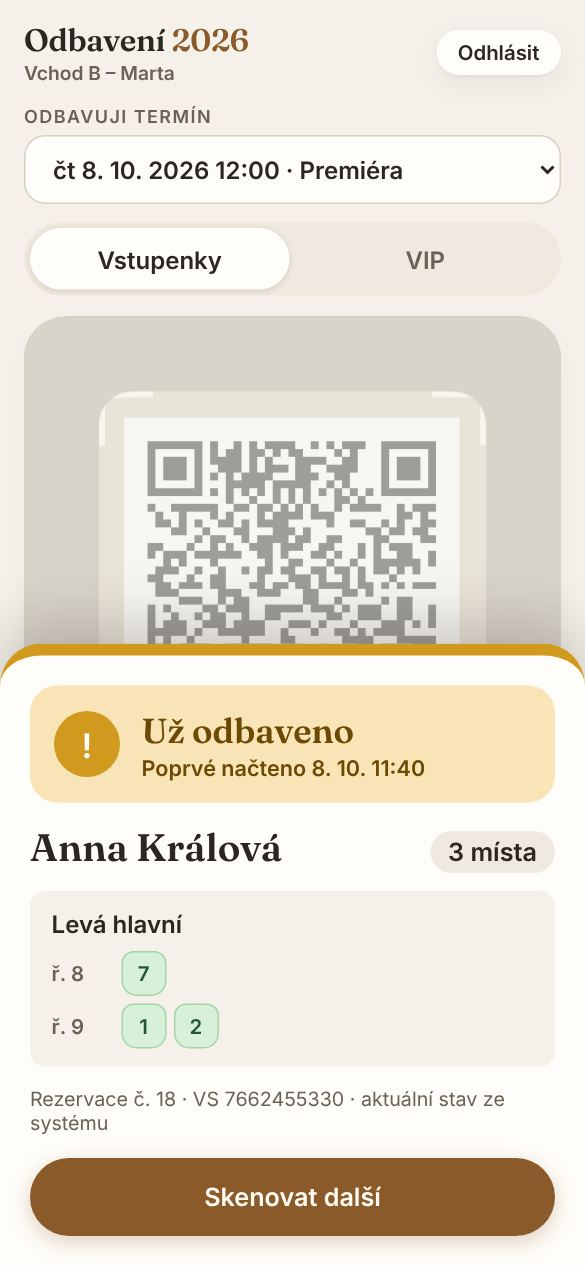
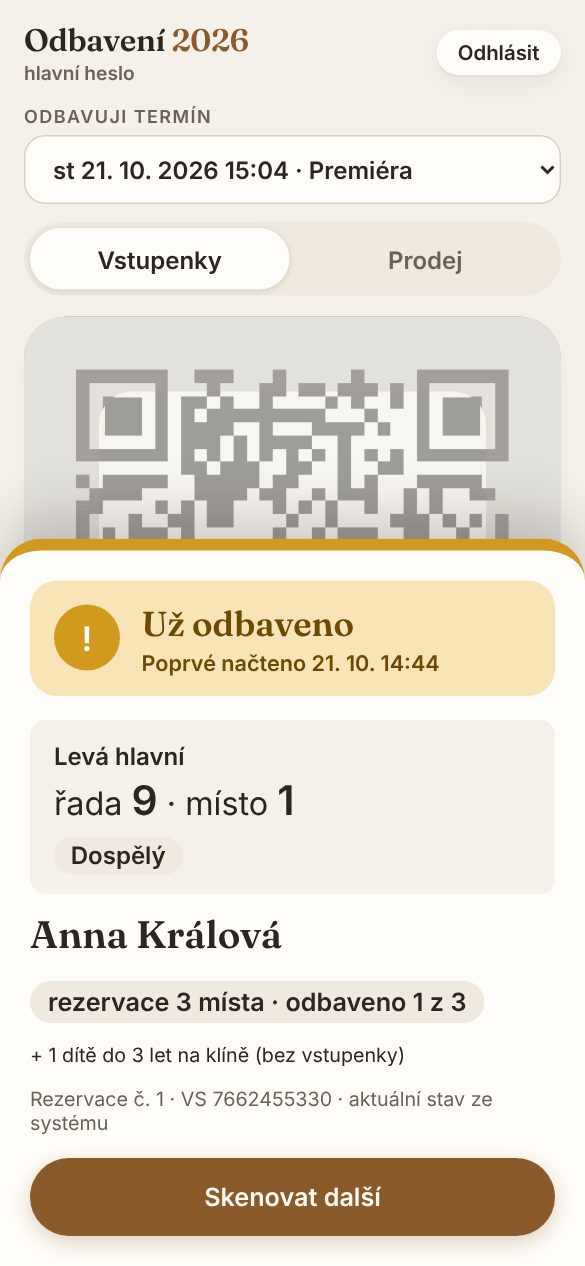
Stakeholder overview: prices, discount codes, seat tickets, on-site sale
Updated texts and refreshed screenshots with demo data; VIP screens removed.
Admin: Czech plural of on-site sales, discount codes not wrapped.

Claude-Session: https://claude.ai/code/session_01Tqukm7uUaAAmFan7fEuHMF

diff --git a/docs/prehled/index.html b/docs/prehled/index.html
@@ -48,6 +48,10 @@ section { display: flex; flex-direction: column; gap: 20px; }
 header.hero { display: flex; flex-direction: column; gap: 14px; }
 
 /* the journey */
+.prices { display: grid; grid-template-columns: repeat(auto-fit, minmax(150px, 1fr)); gap: 10px; margin: 0 0 14px; }
+.prices div { padding: 12px 14px; background: var(--surface); border: 1px solid var(--line); border-radius: 14px; display: flex; flex-direction: column; gap: 2px; }
+.prices strong { font-size: 1.25rem; }
+.prices span { color: var(--fg-2); font-size: .9rem; }
 .flow { list-style: none; margin: 0; padding: 0; display: grid; grid-template-columns: minmax(0, 1fr); gap: 10px; counter-reset: step; }
 .flow li { counter-increment: step; display: grid; grid-template-columns: 2.4rem minmax(0, 1fr); gap: 4px 14px; padding: 16px; border-radius: 16px; background: var(--surface); border: 1px solid var(--line); }
 .flow li::before { content: counter(step); grid-row: span 2; width: 2.4rem; height: 2.4rem; border-radius: 50%; display: grid; place-items: center; background: var(--accent); color: var(--surface); font: 600 1.1rem var(--font-display); }
@@ -102,12 +106,17 @@ footer { color: var(--fg-2); font-size: .85rem; border-top: 1px solid var(--line
 
   <section aria-labelledby="flow">
     <h2 id="flow">V pěti krocích</h2>
+    <div class="prices">
+      <div><strong>300 Kč</strong><span>dospělí od 18 let</span></div>
+      <div><strong>150 Kč</strong><span>děti 4–17 let</span></div>
+      <div><strong>zdarma</strong><span>děti do 3 let na klíně – bez vlastního místa a vstupenky</span></div>
+    </div>
     <ol class="flow">
-      <li><strong>Výběr</strong><span>Návštěvník vybere představení a na plánku kostela naklikne místa (300 Kč, nejvýše 20 najednou).</span></li>
-      <li><strong>Rezervace</strong><span>Vyplní jméno a e-mail. Místa jsou od té chvíle držena jen pro něj.</span></li>
-      <li><strong>Platba</strong><span>Zaplatí převodem – nejsnáz QR platbou v bankovní aplikaci. Má na to 3 dny (nejpozději do začátku představení).</span></li>
-      <li><strong>Vstupenka</strong><span>Účetní platbu potvrdí a návštěvníkovi přijde e-mailem vstupenka s QR kódem a pozvánkou do kalendáře.</span></li>
-      <li><strong>Vstup</strong><span>U vchodu ji ukáže v mobilu, pořadatel ji načte telefonem a pustí ho dál.</span></li>
+      <li><strong>Výběr</strong><span>Návštěvník vybere představení a na plánku kostela naklikne místa (nejvýše 20 najednou).</span></li>
+      <li><strong>Rezervace</strong><span>Určí, kolik míst je pro děti, případně zadá slevový kód, a vyplní jméno a e-mail. Místa jsou od té chvíle držena jen pro něj.</span></li>
+      <li><strong>Platba</strong><span>Zaplatí převodem – nejsnáz QR platbou v bankovní aplikaci. Má na to 3 dny (nejpozději do začátku představení; správce může od určitého data splatnost zkrátit).</span></li>
+      <li><strong>Vstupenky</strong><span>Účetní platbu potvrdí a návštěvníkovi přijdou e-mailem vstupenky – pro každé místo vlastní QR kód, v příloze i PDF k vytištění a rozstříhání.</span></li>
+      <li><strong>Vstup</strong><span>U vchodu ukáže vstupenky v mobilu nebo vytištěné, pořadatel je načte telefonem – každou židli zvlášť.</span></li>
     </ol>
   </section>
 
@@ -118,8 +127,9 @@ footer { color: var(--fg-2); font-size: .85rem; border-top: 1px solid var(--line
         <h3>Návštěvník</h3>
         <span class="where">webová stránka · mobil i počítač</span>
         <ul>
-          <li>vybere představení a místa, rezervuje a zaplatí</li>
-          <li>dostane vstupenku e-mailem</li>
+          <li>vybere představení a místa, určí dětská místa, rezervuje a zaplatí</li>
+          <li>může použít slevový kód – jedno místo zdarma za každý kód</li>
+          <li>dostane e-mailem vstupenky – na každou židli jednu, i k vytištění</li>
           <li>může zrušit celou rezervaci nebo jen některá místa</li>
         </ul>
       </article>
@@ -129,7 +139,9 @@ footer { color: var(--fg-2); font-size: .85rem; border-top: 1px solid var(--line
         <ul>
           <li>kontroluje platby ve výpisu a zapisuje, kolik skutečně přišlo</li>
           <li>vrací peníze při zrušení</li>
-          <li>zakládá představení, storno podmínky a VIP hosty s konkrétními místy</li>
+          <li>zakládá představení, storno podmínky a splatnost plateb</li>
+          <li>rozesílá slevové kódy na e-maily</li>
+          <li>ověřuje platby za vstupenky prodané u vchodu</li>
           <li>posílá pozvánky pořadatelům u vchodu</li>
           <li>zve další účetní – každý má vlastní přihlášení</li>
         </ul>
@@ -138,8 +150,8 @@ footer { color: var(--fg-2); font-size: .85rem; border-top: 1px solid var(--line
         <h3>Pořadatel u vchodu</h3>
         <span class="where">scanner · vlastní mobil s pozvánkou</span>
         <ul>
-          <li>načítá vstupenky kamerou telefonu</li>
-          <li>vpouští VIP hosty podle jména</li>
+          <li>načítá vstupenky kamerou telefonu – každou židli zvlášť</li>
+          <li>prodává volná místa přímo u vchodu – zákazník zaplatí QR platbou</li>
           <li>vidí jen představení, na která dostal pozvánku</li>
           <li>odbavuje i při výpadku internetu (podle staženého seznamu)</li>
         </ul>
@@ -168,13 +180,13 @@ footer { color: var(--fg-2); font-size: .85rem; border-top: 1px solid var(--line
       <figure><div class="phone"><img src="03-sekce.jpg" alt="Detail sekce s místy" width="585" height="1266" loading="lazy"></div>
         <figcaption><strong>3. Výběr míst</strong>Řada a číslo na každé židli. Zelená volná, červená vybraná nebo obsazená.</figcaption></figure>
       <figure><div class="phone"><img src="04-formular.jpg" alt="Formulář rezervace" width="585" height="1266" loading="lazy"></div>
-        <figcaption><strong>4. Rezervace</strong>Jméno a e-mail, cena, storno podmínky a informace o ochraně údajů.</figcaption></figure>
+        <figcaption><strong>4. Rezervace</strong>Kolik míst je pro děti 4–17 let, děti do 3 let na klíně, slevové kódy, výsledná cena. Pod tím jméno, e-mail, storno podmínky a ochrana údajů.</figcaption></figure>
       <figure><div class="phone"><img src="05-platba.jpg" alt="Stránka s QR platbou" width="585" height="1770" loading="lazy"></div>
-        <figcaption><strong>5. Platba</strong>QR platba a všechny platební údaje ke zkopírování. Stejné údaje přijdou e-mailem.</figcaption></figure>
-      <figure><div class="phone"><img src="06-vstupenka-storno.jpg" alt="Vstupenka a zrušení míst" width="585" height="1770" loading="lazy"></div>
-        <figcaption><strong>6. Vstupenka a zrušení</strong>Po zaplacení vstupenka. Zde lze zrušit celou rezervaci nebo jen některá místa.</figcaption></figure>
-      <figure><div class="phone"><img src="07-email.jpg" alt="E-mail se vstupenkou" width="630" height="1050" loading="lazy"></div>
-        <figcaption><strong>7. Vstupenka e-mailem</strong>QR kód, představení, jméno a místa. V příloze je událost do kalendáře (udalost.ics) – Gmail i Outlook nabídnou „Přidat do kalendáře“.</figcaption></figure>
+        <figcaption><strong>5. Platba</strong>QR platba a všechny platební údaje ke zkopírování, pod nimi každé místo s druhem a cenou (místo za slevový kód zdarma). Stejné údaje přijdou e-mailem.</figcaption></figure>
+      <figure><div class="phone"><img src="06-vstupenka-storno.jpg" alt="Vstupenky a zrušení míst" width="585" height="3267" loading="lazy"></div>
+        <figcaption><strong>6. Vstupenky a zrušení</strong>Po zaplacení vstupenka pro každé místo a tlačítko na PDF k tisku. Zde lze zrušit celou rezervaci nebo jen některá místa.</figcaption></figure>
+      <figure><div class="phone"><img src="07-email.jpg" alt="E-mail se vstupenkami" width="630" height="2096" loading="lazy"></div>
+        <figcaption><strong>7. Vstupenky e-mailem</strong>Představení, jméno a pro každé místo vlastní QR kód (1 QR kód = 1 židle). V příloze vstupenky.pdf k vytištění – vstupenky pod sebou s čarou na rozstříhání – a událost do kalendáře (udalost.ics).</figcaption></figure>
     </div>
 
     <div class="group-head"><h3>Pořadatel u vchodu</h3><span class="where">mobil · scanner</span></div>
@@ -184,19 +196,23 @@ footer { color: var(--fg-2); font-size: .85rem; border-top: 1px solid var(--line
       <figure><div class="phone"><img src="09-scanner-mimo-cas.jpg" alt="Varování mimo čas odbavení" width="585" height="1266" loading="lazy"></div>
         <figcaption><strong>Hlídání času</strong>Mimo hodinu před a po začátku představení scanner varuje. Odbavit lze jen po potvrzení.</figcaption></figure>
       <figure><div class="phone"><img src="10-scanner-platna.jpg" alt="Platná vstupenka" width="585" height="1266" loading="lazy"></div>
-        <figcaption><strong>Platná vstupenka</strong>Zelená = pustit dál. Ukáže jméno a místa.</figcaption></figure>
+        <figcaption><strong>Platná vstupenka</strong>Zelená = pustit dál. Velké číslo řady a místa, dospělý / dítě, kolik míst z rezervace už prošlo a děti na klíně.</figcaption></figure>
       <figure><div class="phone"><img src="11-scanner-uz-odbaveno.jpg" alt="Vstupenka už použita" width="585" height="1266" loading="lazy"></div>
-        <figcaption><strong>Už odbaveno</strong>Druhé načtení stejné vstupenky ukáže, kdy prošla poprvé.</figcaption></figure>
-      <figure><div class="phone"><img src="12-scanner-vip.jpg" alt="Seznam VIP hostů" width="585" height="1266" loading="lazy"></div>
-        <figcaption><strong>VIP hosté</strong>Vyhledání podle jména, u každého hosta jeho místa a tlačítko Vpustit.</figcaption></figure>
+        <figcaption><strong>Už odbaveno</strong>Druhé načtení stejné vstupenky (stejné židle) ukáže, kdy prošla poprvé.</figcaption></figure>
       <figure><div class="phone"><img src="17-scanner-offline.jpg" alt="Odbavení bez internetu" width="585" height="1266" loading="lazy"></div>
         <figcaption><strong>Bez internetu</strong>Scanner ověřuje podle seznamu staženého předem. Žlutý pruh ukazuje, odkdy je seznam a kolik odbavení čeká na odeslání.</figcaption></figure>
+      <figure><div class="phone"><img src="22-scanner-prodej.jpg" alt="Prodej vstupenek u vchodu" width="585" height="1266" loading="lazy"></div>
+        <figcaption><strong>Prodej u vchodu</strong>Dokud jsou volná místa, pořadatel je vybere na plánku sekce a určí dětská místa.</figcaption></figure>
+      <figure><div class="phone"><img src="23-scanner-prodej-platba.jpg" alt="QR platba za prodané vstupenky" width="585" height="1266" loading="lazy"></div>
+        <figcaption><strong>Platba u vchodu</strong>Zákazník naskenuje QR platbu v bankovní aplikaci a ukáže odeslanou platbu. Pořadatel klepne „Zaplaceno – vpustit“ – místa jsou rovnou odbavená.</figcaption></figure>
     </div>
 
     <div class="group-head"><h3>Účetní / správce</h3><span class="where">počítač · správa</span></div>
     <div class="screens-wide">
       <figure><div class="desktop"><img src="13-admin-rezervace.jpg" alt="Seznam rezervací" width="1360" height="860" loading="lazy"></div>
-        <figcaption><strong>Rezervace</strong>Obsazenost představení, vyhledávání podle VS nebo jména, zápis přijaté částky, zrušení, vracení peněz.</figcaption></figure>
+        <figcaption><strong>Rezervace</strong>Obsazenost představení, vyhledávání podle VS nebo jména, zápis přijaté částky, zrušení, vracení peněz, PDF vstupenek. U každého místa je vidět dětská vstupenka, slevový kód a zda už prošlo. Červená karta upozorní na prodeje u vchodu, u kterých je třeba ověřit, že platba dorazila.</figcaption></figure>
+      <figure><div class="desktop"><img src="21-admin-kody.jpg" alt="Slevové kódy" width="1360" height="860" loading="lazy"></div>
+        <figcaption><strong>Slevové kódy</strong>Zadáte e-maily, každý dostane jeden kód (kdo má dostat víc, zadejte ho víckrát). Je vidět, který kód byl použit a na jaké místo. Nepoužitý kód lze poslat znovu nebo zrušit.</figcaption></figure>
       <figure><div class="desktop"><img src="15-admin-poradatele.jpg" alt="Pozvánky pořadatelů" width="1360" height="860" loading="lazy"></div>
         <figcaption><strong>Pořadatelé</strong>Pozvánky pro mobily u vchodu, vždy jen na vybraná představení. Přístup lze kdykoli zrušit.</figcaption></figure>
       <figure><div class="desktop"><img src="18-admin-konflikty.jpg" alt="Konflikty z odbavení bez internetu" width="1360" height="860" loading="lazy"></div>
@@ -205,27 +221,28 @@ footer { color: var(--fg-2); font-size: .85rem; border-top: 1px solid var(--line
         <figcaption><strong>Účetní</strong>Pozvání další účetní e-mailem, stav pozvánek, nové heslo při zapomenutí, vypnutí účtu.</figcaption></figure>
       <figure><div class="desktop"><img src="20-pozvanka-heslo.jpg" alt="Vytvoření hesla z pozvánky" width="1360" height="860" loading="lazy"></div>
         <figcaption><strong>Pozvánka pro účetní</strong>Odkaz z e-mailu: pozvaná si vytvoří heslo, přihlašovacím jménem je její e-mail.</figcaption></figure>
-      <figure><div class="desktop"><img src="14-admin-vip.jpg" alt="VIP hosté" width="1360" height="860" loading="lazy"></div>
-        <figcaption><strong>VIP hosté</strong>Hosté zdarma pro každé představení. Místa se vybírají na plánku – šedá obsadily rezervace, zlatá jiní VIP. Je vidět, kdo už přišel.</figcaption></figure>
       <figure><div class="desktop"><img src="16-admin-terminy.jpg" alt="Nastavení představení" width="1360" height="860" loading="lazy"></div>
-        <figcaption><strong>Představení a storno</strong>Datum a čas každého představení a jeho storno poplatky. Po první rezervaci jsou zamčené.</figcaption></figure>
+        <figcaption><strong>Splatnost, představení a storno</strong>Nahoře splatnost plateb: od zvoleného data a hodiny mají nové rezervace kratší (nebo delší) lhůtu na zaplacení. Pod tím datum a čas každého představení a jeho storno poplatky – po první rezervaci jsou zamčené.</figcaption></figure>
     </div>
   </section>
 
   <section aria-labelledby="rules">
     <h2 id="rules">Důležitá pravidla</h2>
     <div class="rules">
-      <div class="rule"><strong>Kdo nezaplatí, přijde o místa</strong><p>Na platbu jsou 3 dny (nejpozději do začátku představení). Den předem přijde připomínka. Když platba nedorazí ani 2 dny po splatnosti, místa se uvolní.</p></div>
+      <div class="rule"><strong>Ceny</strong><p>Dospělí od 18 let 300 Kč, děti 4–17 let 150 Kč. Děti do 3 let sedí na klíně zdarma – nemají vlastní místo ani vstupenku, v rezervaci se jen uvedou.</p></div>
+      <div class="rule"><strong>Slevové kódy</strong><p>Kód platí na libovolné představení a jen jednou. Odečte cenu jednoho místa – vždy nejdražšího (nejdřív dospělého, pak dětského). Kódů lze v rezervaci použít víc, nejvýše jeden na místo. Když kódy pokryjí celou cenu, rezervace je potvrzená hned. Při stornu se za místo zdarma nic nevrací a kód zůstává použitý.</p></div>
+      <div class="rule"><strong>1 QR kód = 1 židle</strong><p>Každé místo má vlastní vstupenku. Rodina si je může vytisknout, rozstříhat a rozdat – u vchodu se načítá každá zvlášť a scanner ukáže, zda jde o dospělého, nebo dítě.</p></div>
+      <div class="rule"><strong>Prodej u vchodu</strong><p>Dokud jsou volná místa, pořadatel je prodá přímo na místě: zákazník zaplatí QR platbou v bankovní aplikaci, pořadatel po ukázání odeslané platby vpustí. Peníze pak ve výpisu ověří účetní („Platba dorazila“). Prodej potřebuje internet.</p></div>
+      <div class="rule"><strong>Kdo nezaplatí, přijde o místa</strong><p>Na platbu jsou 3 dny (nejpozději do začátku představení). Správce může od zvoleného data a hodiny nastavit jinou splatnost v hodinách – platí pro rezervace vytvořené od té doby. Den předem přijde připomínka. Když platba nedorazí ani 2 dny po splatnosti, místa se uvolní.</p></div>
       <div class="rule"><strong>Platby potvrzuje člověk</strong><p>Aplikace není napojená na banku. Účetní páruje platby podle variabilního symbolu a zapíše, kolik skutečně přišlo. Vstupenka proto přijde až po potvrzení.</p></div>
       <div class="rule"><strong>Málo nebo moc peněz</strong><p>Když přijde méně, návštěvník dostane e-mail, kolik má doplatit, a vstupenka přijde po doplacení. Přeplatek se vrací na účet, ze kterého platba přišla.</p></div>
       <div class="rule"><strong>Zrušení a storno</strong><p>Návštěvník ruší sám přes odkaz z e-mailu, celou rezervaci i jednotlivá místa. Poplatek podle storno podmínek představení, zbytek se do 14 dnů vrátí na účet, ze kterého platba přišla.</p></div>
-      <div class="rule"><strong>Vstupenku nejde padělat</strong><p>QR kód je elektronicky podepsaný. Pořadatel vždy vidí aktuální stav: zaplaceno, zrušeno nebo už prošel.</p></div>
+      <div class="rule"><strong>Vstupenku nejde padělat</strong><p>QR kód je elektronicky podepsaný. Pořadatel vždy vidí aktuální stav: zaplaceno, zrušeno (i jednotlivé zrušené místo) nebo už prošel.</p></div>
       <div class="rule"><strong>Vstupenka platí jen na své představení</strong><p>Kdo přijde jiný den, scanner ukáže „Jiný termín“ a dotyčného nepustí jako odbaveného.</p></div>
       <div class="rule"><strong>Bez internetu u vchodu</strong><p>Scanner si s internetem průběžně stahuje seznam vstupenek. Když spojení vypadne, ověřuje podle něj (pozná i zrušené a už použité vstupenky) a odbavení odešle, až se spojení vrátí. Mobily bez spojení o sobě navzájem nevědí – kopii stejné vstupenky na dvou vchodech zjistí systém až dodatečně.</p></div>
       <div class="rule"><strong>Odbavení jen v pravý čas</strong><p>Od hodiny před do hodiny po začátku představení. Jindy scanner varuje, aby se omylem neodbavovalo jiné představení.</p></div>
       <div class="rule"><strong>Čas a storno podmínky se nemění</strong><p>Jakmile má představení první rezervaci, nelze už změnit jeho začátek ani storno podmínky – platí to, za co si lidé místa koupili.</p></div>
       <div class="rule"><strong>Platba, která už nejde použít</strong><p>Peníze po propadnutí rezervace ji obnoví, pokud představení ještě nezačalo a místa jsou volná. Jinak – a také u zrušené rezervace nebo platby poslané dvakrát – se peníze vrací na účet plátce a návštěvník dostane e-mail.</p></div>
-      <div class="rule"><strong>VIP hosté</strong><p>Neplatí a nemají vstupenku, ale mají přidělená konkrétní místa – na webu se ukazují jako obsazená. Pořadatel je najde na seznamu podle jména.</p></div>
       <div class="rule"><strong>Každá účetní má vlastní přihlášení</strong><p>Správce pozve účetní e-mailem, ta si na odkazu (platí 7 dní) vytvoří heslo, přihlašuje se svým e-mailem. Kdo heslo zapomene, dostane nový odkaz. Účet lze kdykoli vypnout – dotyčná je hned odhlášená. Všichni správci mají stejná práva.</p></div>
       <div class="rule"><strong>Ochrana proti robotům</strong><p>Formulář chrání neviditelná kontrola – návštěvník nic nevyplňuje ani nevybírá obrázky, prohlížeč se ověří sám na pozadí.</p></div>
       <div class="rule"><strong>Ochrana osobních údajů</strong><p>Ukládá se jen jméno a e-mail. 30 dní po posledním představení se automaticky smažou – u rezervací, kde se ještě vrací peníze, až po jejich vrácení.</p></div>
@@ -236,15 +253,16 @@ footer { color: var(--fg-2); font-size: .85rem; border-top: 1px solid var(--line
     <h2 id="launch">Co je potřeba před spuštěním</h2>
     <ul class="checklist">
       <li>Bankovní účet pro platby a specifický symbol.</li>
-      <li>Přístup k odesílání e-mailů (SMTP): server, port, e-mailová adresa odesílatele a její heslo.</li>
+      <li>Přístup k odesílání e-mailů (SMTP): server, port, e-mailová adresa odesílatele a její heslo – zapisují se do souboru .env na serveru.</li>
       <li>Kontaktní e-mail a telefon pořadatelů – zobrazí se na webu a v každém e-mailu, odpovědi na e-maily půjdou na tento kontakt.</li>
       <li>Data a časy všech představení a jejich storno podmínky – musí být hotové před spuštěním prodeje, po první rezervaci je už nelze změnit.</li>
       <li>Adresa místa konání a přibližná délka představení – objeví se v události v kalendáři.</li>
-      <li>Seznam VIP hostů pro každé představení a jejich místa.</li>
+      <li>Seznam e-mailů, kam poslat slevové kódy (místo dřívějších VIP hostů).</li>
+      <li>Od kdy zkrátit splatnost plateb (např. poslední týden před představením 24 hodin).</li>
       <li>Jména pořadatelů u vchodu a na která představení přijdou (dostanou pozvánku).</li>
       <li>Kdo bude potvrzovat platby a vracet peníze – jména a e-maily účetních, kterým přijde pozvánka. Po jejich pozvání lze hlavní heslo z konfigurace smazat.</li>
       <li>Vyzkoušet signál a Wi-Fi přímo v kostele. Před představením otevřít scanner na každém mobilu s internetem – stáhne si seznam vstupenek pro případ výpadku.</li>
-      <li>Zkušební rezervace „naostro“: rezervace → platba → vstupenka → načtení u vchodu.</li>
+      <li>Zkušební rezervace „naostro“: rezervace → platba → vstupenky → vytištění PDF → načtení u vchodu; a zkušební prodej u vchodu s QR platbou.</li>
     </ul>
     <p class="note">Snímky obrazovek ukazují zkušební data – jména a rezervace jsou smyšlené.</p>
   </section>

diff --git a/api/admin.php b/api/admin.php
@@ -355,7 +355,7 @@ $statusLabels = ['pending' => 'Čeká na platbu', 'paid' => 'Zaplaceno', 'expire
   .hint { margin:0; font-size:.85rem; color:var(--ink-2); }
   .settings label.wide { max-width:none; }
   textarea { font:inherit; padding:8px 12px; border-radius:10px; border:1px solid var(--wall); background:#fff; resize:vertical; }
-  .code { font-family:ui-monospace, monospace; letter-spacing:.05em; }
+  .code { font-family:ui-monospace, monospace; letter-spacing:.05em; white-space:nowrap; }
   .kind { display:inline-block; padding:0 6px; border-radius:6px; background:#efe9df; font-size:.72rem; color:var(--ink-2); }
   .kind.child { background:#dfe9f5; color:#1f3f6b; } .kind.free { background:#dcefd9; color:#1f5a2c; }
   @media (max-width: 760px) {
@@ -790,7 +790,7 @@ $statusLabels = ['pending' => 'Čeká na platbu', 'paid' => 'Zaplaceno', 'expire
     <?php endif ?>
     <?php $onsite = db_query("SELECT COUNT(*) n, COALESCE(SUM(amount), 0) amount FROM reservations WHERE sold_by IS NOT NULL AND status = 'paid' AND payment_checked_at IS NULL")->fetch(); ?>
     <?php if ($onsite['n'] > 0): ?>
-      <a class="card attention" href="admin.php?status=onsite">Na místě – ověřit platbu<strong><?= $kc($onsite['amount']) ?></strong><?= (int) $onsite['n'] ?> prodejů</a>
+      <a class="card attention" href="admin.php?status=onsite">Na místě – ověřit platbu<strong><?= $kc($onsite['amount']) ?></strong><?= ($n = (int) $onsite['n']) ?> <?= $n === 1 ? 'prodej' : ($n < 5 ? 'prodeje' : 'prodejů') ?></a>
     <?php endif ?>
   </div>
 
